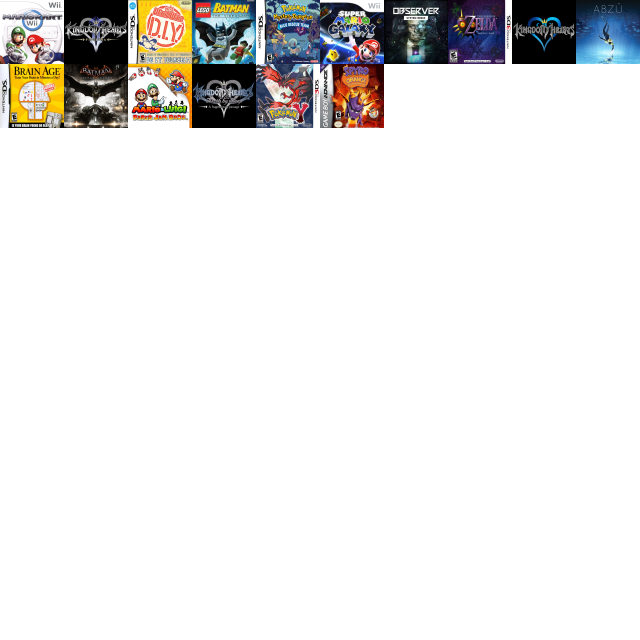
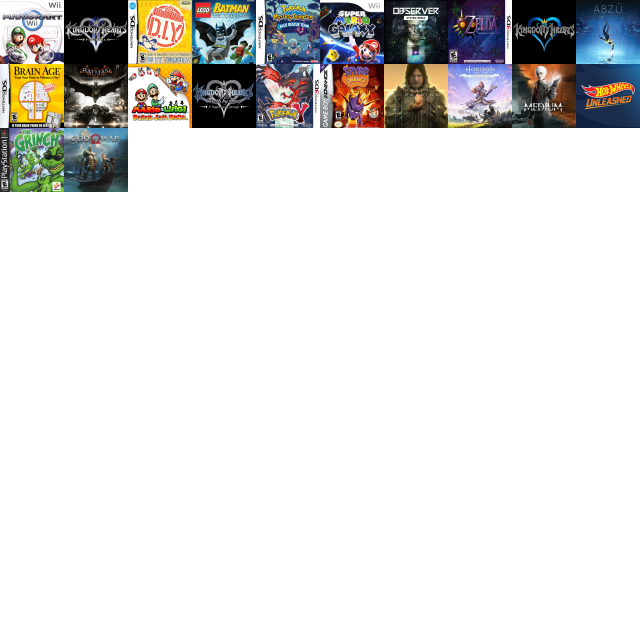
Update game records

Changed region(s): [[0.5938, 0.0938, 1.0, 0.2188], [0.0, 0.1875, 0.2188, 0.3125]]

diff --git a/_pages/game-records.html b/_pages/game-records.html
@@ -3,7 +3,7 @@ permalink: /game-records/
 layout: wnesenior
 title: Game Records
 base_url: /
-last_updated: August 20, 2022 at 5:01 PM
+last_updated: October 26, 2022 at 3:58 PM
 ---
 
 <style type="text/css">
@@ -23,7 +23,8 @@ last_updated: August 20, 2022 at 5:01 PM
 </style>
 <style type="text/css">
 	img#mkwii{background:url(/resources/png/icons2.png) 0 0}img#kh2fm{background:url(/resources/png/icons2.png) -64px 0}img#warioware{background:url(/resources/png/icons2.png) -128px 0}img#batmanps2{background:url(/resources/png/icons2.png) -192px 0}img#pokemondungeon{background:url(/resources/png/icons2.png) -256px 0}img#smg1{background:url(/resources/png/icons2.png) -320px 0}img#observer{background:url(/resources/png/icons2.png) -384px 0}img#mm3d{background:url(/resources/png/icons2.png) -448px 0}img#ogkh{background:url(/resources/png/icons2.png) -512px 0}img#abzu{background:url(/resources/png/icons2.png) -576px 0}
-	img#brainage{background:url(/resources/png/icons2.png) 0 -64px}img#arkhamknight{background:url(/resources/png/icons2.png) -64px -64px}img#paperjam{background:url(/resources/png/icons2.png) -128px -64px}img#kh02{background:url(/resources/png/icons2.png) -192px -64px}img#pokemony{background:url(/resources/png/icons2.png) -256px -64px}img#spyroorange{background:url(/resources/png/icons2.png) -320px -64px}
+	img#brainage{background:url(/resources/png/icons2.png) 0 -64px}img#arkhamknight{background:url(/resources/png/icons2.png) -64px -64px}img#paperjam{background:url(/resources/png/icons2.png) -128px -64px}img#kh02{background:url(/resources/png/icons2.png) -192px -64px}img#pokemony{background:url(/resources/png/icons2.png) -256px -64px}img#spyroorange{background:url(/resources/png/icons2.png) -320px -64px}img#deathstrand{background:url(/resources/png/icons2.png) -384px -64px}img#zerodawn{background:url(/resources/png/icons2.png) -448px -64px}img#medium{background:url(/resources/png/icons2.png) -512px -64px}img#hotwheels{background:url(/resources/png/icons2.png) -576px -64px}
+	img#grinch{background:url(/resources/png/icons2.png) 0 -128px}img#godofwar{background:url(/resources/png/icons2.png) -64px -128px}
 </style>
 <div style="padding-top:24px"></div>
 <div class="game-listing">
@@ -139,6 +140,14 @@ last_updated: August 20, 2022 at 5:01 PM
 	</div>
 </div>
 <div class="game-listing">
+	<div class="game-icon"><img id="deathstrand" alt="icon" src="/resources/png/blank.png"></div>
+	<div class="listing-details">
+		<span id="title">Death Stranding: Director's Cut (2021)</span>
+		<span id="platform">PlayStation</span>
+		<span id="rating"><img src="/resources/gif/star-filled.gif"><img src="/resources/gif/star-filled.gif"><img src="/resources/gif/star-filled.gif"><img src="/resources/gif/star-filled.gif"><img src="/resources/gif/star-empty.gif"></span>
+	</div>
+</div>
+<div class="game-listing">
 	<div class="game-icon"><img id="poultry" alt="icon" src="/resources/png/blank.png"></div>
 	<div class="listing-details">
 		<span id="title">Disney's Chicken Little (2006)</span>
@@ -211,6 +220,14 @@ last_updated: August 20, 2022 at 5:01 PM
 	</div>
 </div>
 <div class="game-listing">
+	<div class="game-icon"><img id="godofwar" alt="icon" src="/resources/png/blank.png"></div>
+	<div class="listing-details">
+		<span id="title">God of War (2018)</span>
+		<span id="platform">PlayStation</span>
+		<span id="rating"><img src="/resources/gif/star-filled.gif"><img src="/resources/gif/star-filled.gif"><img src="/resources/gif/star-filled.gif"><img src="/resources/gif/star-filled.gif"><img src="/resources/gif/star-empty.gif"></span>
+	</div>
+</div>
+<div class="game-listing">
 	<div class="game-icon"><img id="gtasa" alt="icon" src="/resources/png/blank.png"></div>
 	<div class="listing-details">
 		<span id="title">Grand Theft Auto: San Andreas (2013)</span>
@@ -232,6 +249,22 @@ last_updated: August 20, 2022 at 5:01 PM
 		<span id="title">Hollow Knight: Voidheart Edition (2018)</span>
 		<span id="platform">PlayStation</span>
 		<span id="rating"><img src="/resources/gif/star-filled.gif"><img src="/resources/gif/star-filled.gif"><img src="/resources/gif/star-filled.gif"><img src="/resources/gif/star-filled.gif"><img src="/resources/gif/star-filled.gif"></span>
+	</div>
+</div>
+<div class="game-listing">
+	<div class="game-icon"><img id="zerodawn" alt="icon" src="/resources/png/blank.png"></div>
+	<div class="listing-details">
+		<span id="title">Horizon Zero Dawn: Complete Edition (2017)</span>
+		<span id="platform">PlayStation</span>
+		<span id="rating"><img src="/resources/gif/star-filled.gif"><img src="/resources/gif/star-filled.gif"><img src="/resources/gif/star-filled.gif"><img src="/resources/gif/star-filled.gif"><img src="/resources/gif/star-half.gif"></span>
+	</div>
+</div>
+<div class="game-listing">
+	<div class="game-icon"><img id="hotwheels" alt="icon" src="/resources/png/blank.png"></div>
+	<div class="listing-details">
+		<span id="title">Hot Wheels Unleashed (2021)</span>
+		<span id="platform">PlayStation</span>
+		<span id="rating"><img src="/resources/gif/star-filled.gif"><img src="/resources/gif/star-filled.gif"><img src="/resources/gif/star-half.gif"><img src="/resources/gif/star-empty.gif"><img src="/resources/gif/star-empty.gif"></span>
 	</div>
 </div>
 <div class="game-listing">
@@ -795,6 +828,14 @@ last_updated: August 20, 2022 at 5:01 PM
 	</div>
 </div>
 <div class="game-listing">
+	<div class="game-icon"><img id="grinch" alt="icon" src="/resources/png/blank.png"></div>
+	<div class="listing-details">
+		<span id="title">The Grinch (2000)</span>
+		<span id="platform">PlayStation 1</span>
+		<span id="rating"><img src="/resources/gif/star-filled.gif"><img src="/resources/gif/star-filled.gif"><img src="/resources/gif/star-filled.gif"><img src="/resources/gif/star-filled.gif"><img src="/resources/gif/star-filled.gif"></span>
+	</div>
+</div>
+<div class="game-listing">
 	<div class="game-icon"><img id="tlou" alt="icon" src="/resources/png/blank.png"></div>
 	<div class="listing-details">
 		<span id="title">The Last of Us: Remastered (2014)</span>
@@ -896,6 +937,14 @@ last_updated: August 20, 2022 at 5:01 PM
 		<span id="title">The LEGO Movie Videogame (2014)</span>
 		<span id="platform">PlayStation</span>
 		<span id="rating"><img src="/resources/gif/star-filled.gif"><img src="/resources/gif/star-filled.gif"><img src="/resources/gif/star-filled.gif"><img src="/resources/gif/star-half.gif"><img src="/resources/gif/star-empty.gif"></span>
+	</div>
+</div>
+<div class="game-listing">
+	<div class="game-icon"><img id="medium" alt="icon" src="/resources/png/blank.png"></div>
+	<div class="listing-details">
+		<span id="title">The Medium (2021)</span>
+		<span id="platform">PlayStation</span>
+		<span id="rating"><img src="/resources/gif/star-filled.gif"><img src="/resources/gif/star-filled.gif"><img src="/resources/gif/star-filled.gif"><img src="/resources/gif/star-empty.gif"><img src="/resources/gif/star-empty.gif"></span>
 	</div>
 </div>
 <div class="game-listing">
